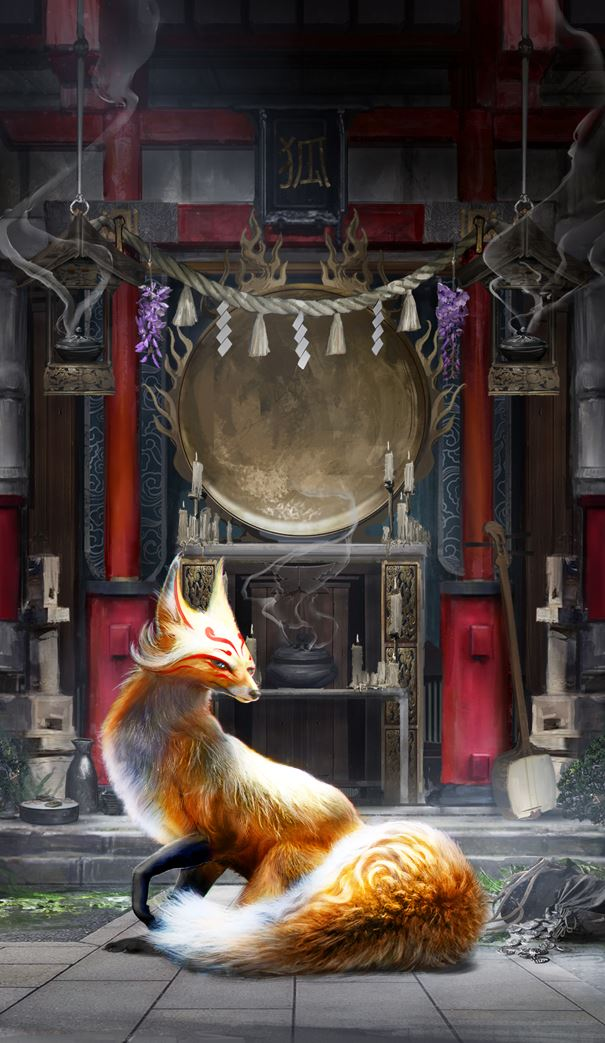
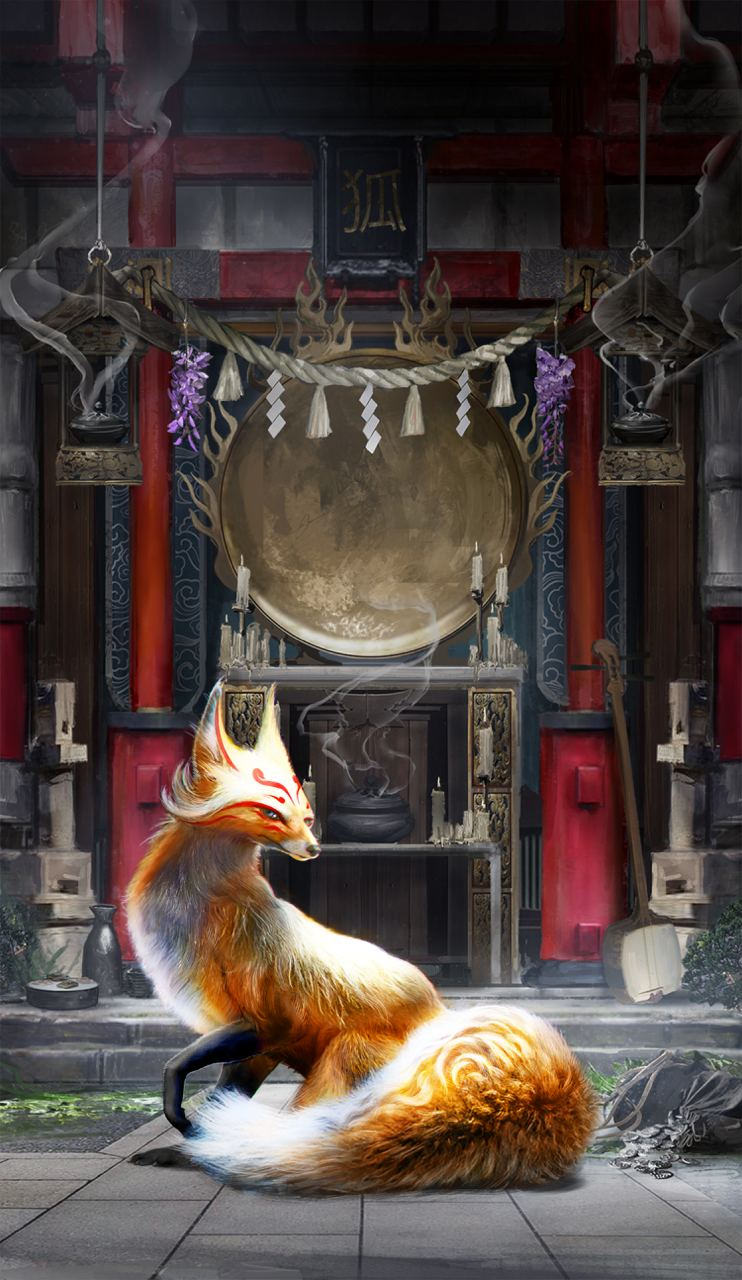
feat: Updated kitsune card images

diff --git a/src/lib/kitsune.ts b/src/lib/kitsune.ts
@@ -1,5 +1,14 @@
 import { OfferingSymbol } from "./offering";
 import Tail1 from "../assets/images/kitsunes/tail-1.jpeg";
+import Tail2 from "../assets/images/kitsunes/tail-2.jpeg";
+import Tail3 from "../assets/images/kitsunes/tail-3.jpeg";
+import Tail4 from "../assets/images/kitsunes/tail-4.jpeg";
+import Tail5 from "../assets/images/kitsunes/tail-5.jpeg";
+import Tail6 from "../assets/images/kitsunes/tail-6.jpeg";
+import Tail7 from "../assets/images/kitsunes/tail-7.jpeg";
+import Tail8 from "../assets/images/kitsunes/tail-8.jpeg";
+import Tail9 from "../assets/images/kitsunes/tail-9.jpeg";
+
 import LightBorder from "../assets/images/borders/light.png";
 import DarkBorder from "../assets/images/borders/dark.png";
 
@@ -36,7 +45,7 @@ export function createKitsuneCards(): KitsuneCard[] {
       id: "tail-2-light",
       symbol: OfferingSymbol.MusicInstrument,
       number: 2,
-      imageSrc: Tail1,
+      imageSrc: Tail2,
       borderSrc: LightBorder,
       spell: "Increase any card number by three",
       spellTrigger: [[OfferingSymbol.Plant], [OfferingSymbol.Incense]],
@@ -45,7 +54,7 @@ export function createKitsuneCards(): KitsuneCard[] {
       id: "tail-3-light",
       symbol: OfferingSymbol.Incense,
       number: 3,
-      imageSrc: Tail1,
+      imageSrc: Tail3,
       borderSrc: LightBorder,
       spell: "When you activate any card, you can cast any spell",
       spellTrigger: [],
@@ -54,7 +63,7 @@ export function createKitsuneCards(): KitsuneCard[] {
       id: "tail-4-light",
       symbol: OfferingSymbol.Plant,
       number: 4,
-      imageSrc: Tail1,
+      imageSrc: Tail4,
       borderSrc: LightBorder,
       spell: "Add any symbol to target card",
       spellTrigger: [[OfferingSymbol.MusicInstrument, OfferingSymbol.Incense]],
@@ -63,7 +72,7 @@ export function createKitsuneCards(): KitsuneCard[] {
       id: "tail-5-light",
       symbol: OfferingSymbol.MusicInstrument,
       number: 5,
-      imageSrc: Tail1,
+      imageSrc: Tail5,
       borderSrc: LightBorder,
       spell: "When any Flora Offering is placed, you can activate any card",
       spellTrigger: [[OfferingSymbol.Plant]],
@@ -72,7 +81,7 @@ export function createKitsuneCards(): KitsuneCard[] {
       id: "tail-6-light",
       symbol: OfferingSymbol.Incense,
       number: 6,
-      imageSrc: Tail1,
+      imageSrc: Tail6,
       borderSrc: LightBorder,
       spell: "Replace this card with any card in your hand",
       spellTrigger: [],
@@ -81,7 +90,7 @@ export function createKitsuneCards(): KitsuneCard[] {
       id: "tail-7-light",
       symbol: OfferingSymbol.Plant,
       number: 7,
-      imageSrc: Tail1,
+      imageSrc: Tail7,
       borderSrc: LightBorder,
       spell: "Gain three points",
       spellTrigger: [
@@ -96,7 +105,7 @@ export function createKitsuneCards(): KitsuneCard[] {
       id: "tail-8-light",
       symbol: OfferingSymbol.MusicInstrument,
       number: 8,
-      imageSrc: Tail1,
+      imageSrc: Tail8,
       borderSrc: LightBorder,
       spell:
         "When you cast a spell, you can remove any number or effects from any card",
@@ -106,7 +115,7 @@ export function createKitsuneCards(): KitsuneCard[] {
       id: "tail-9-light",
       symbol: OfferingSymbol.Incense,
       number: 9,
-      imageSrc: Tail1,
+      imageSrc: Tail9,
       borderSrc: LightBorder,
       spell: "Draw three offerings, then put them back in any order",
       spellTrigger: [[OfferingSymbol.Incense]],
@@ -126,7 +135,7 @@ export function createKitsuneCards(): KitsuneCard[] {
       id: "tail-2-dark",
       symbol: OfferingSymbol.Food,
       number: 2,
-      imageSrc: Tail1,
+      imageSrc: Tail2,
       borderSrc: DarkBorder,
       spell: "Decrease any card number by three",
       spellTrigger: [[OfferingSymbol.Treasure], [OfferingSymbol.Beverage]],
@@ -135,7 +144,7 @@ export function createKitsuneCards(): KitsuneCard[] {
       id: "tail-3-dark",
       symbol: OfferingSymbol.Treasure,
       number: 3,
-      imageSrc: Tail1,
+      imageSrc: Tail3,
       borderSrc: DarkBorder,
       spell: "When enemy activates their card, you can cast any spell",
       spellTrigger: [],
@@ -144,7 +153,7 @@ export function createKitsuneCards(): KitsuneCard[] {
       id: "tail-4-dark",
       symbol: OfferingSymbol.Beverage,
       number: 4,
-      imageSrc: Tail1,
+      imageSrc: Tail4,
       borderSrc: DarkBorder,
       spell: "Remove any symbol from target card",
       spellTrigger: [[OfferingSymbol.Treasure], [OfferingSymbol.Food]],
@@ -153,7 +162,7 @@ export function createKitsuneCards(): KitsuneCard[] {
       id: "tail-5-dark",
       symbol: OfferingSymbol.Food,
       number: 5,
-      imageSrc: Tail1,
+      imageSrc: Tail5,
       borderSrc: DarkBorder,
       spell: "When any Bounty Offering is placed, you can cast any spell",
       spellTrigger: [[OfferingSymbol.Treasure]],
@@ -162,7 +171,7 @@ export function createKitsuneCards(): KitsuneCard[] {
       id: "tail-6-dark",
       symbol: OfferingSymbol.Treasure,
       number: 6,
-      imageSrc: Tail1,
+      imageSrc: Tail6,
       borderSrc: DarkBorder,
       spell: "Look at the enemies hand",
       spellTrigger: [[OfferingSymbol.Food], [OfferingSymbol.Beverage]],
@@ -171,7 +180,7 @@ export function createKitsuneCards(): KitsuneCard[] {
       id: "tail-7-dark",
       symbol: OfferingSymbol.Beverage,
       number: 7,
-      imageSrc: Tail1,
+      imageSrc: Tail7,
       borderSrc: DarkBorder,
       spell: "Return target card to its owners hand",
       spellTrigger: [[OfferingSymbol.Food], [OfferingSymbol.Treasure]],
@@ -180,7 +189,7 @@ export function createKitsuneCards(): KitsuneCard[] {
       id: "tail-8-dark",
       symbol: OfferingSymbol.Food,
       number: 8,
-      imageSrc: Tail1,
+      imageSrc: Tail8,
       borderSrc: DarkBorder,
       spell: "Enemy loses three points",
       spellTrigger: [
@@ -191,7 +200,7 @@ export function createKitsuneCards(): KitsuneCard[] {
       id: "tail-9-dark",
       symbol: OfferingSymbol.Treasure,
       number: 9,
-      imageSrc: Tail1,
+      imageSrc: Tail9,
       borderSrc: DarkBorder,
       spell: "Discard all Offerings",
       spellTrigger: [[OfferingSymbol.Treasure]],
